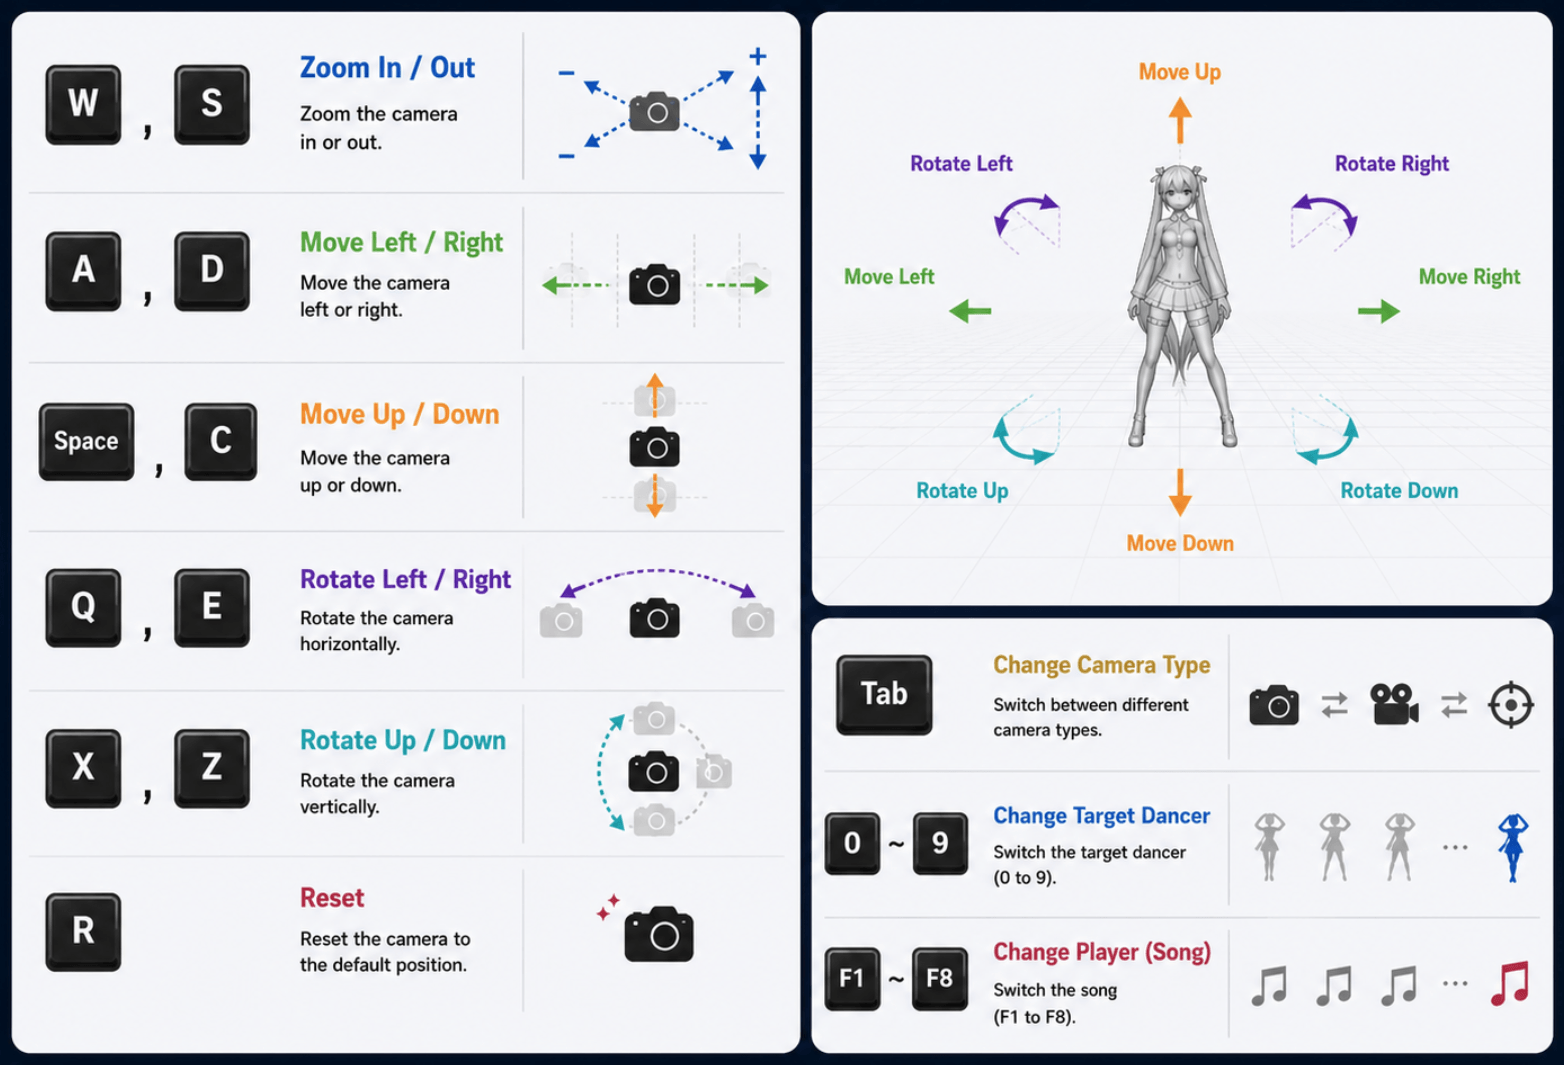
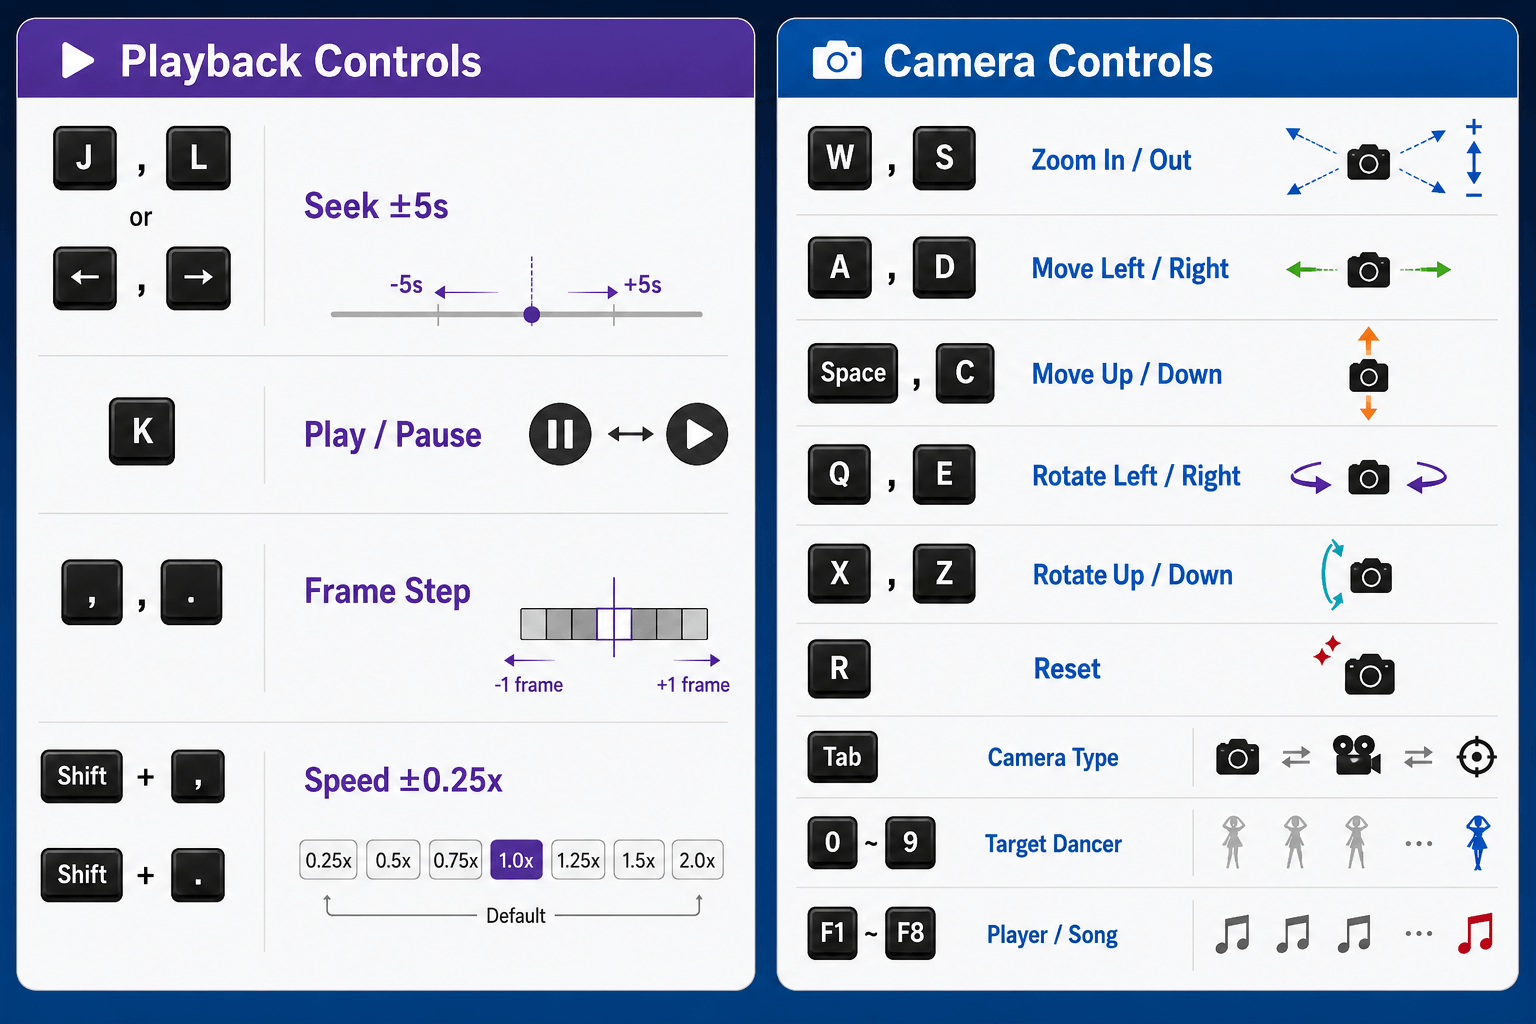
split 1.5.0

diff --git a/docs/en/split-mmd-player/keyboard.md b/docs/en/split-mmd-player/keyboard.md
@@ -9,15 +9,21 @@ This page explains Split MMD Player keyboard controls. Controls are applied to t
 
 ![image](/keyboard.png)
 
-- W,S: Zoom in/out
-- A,D: Move left/right
-- Space,C: Move up/down
-- Q,E: Rotate left/right
-- X,Z: Rotate up/down
-- R: Reset
+## Playback
 
----
+- `J`,`L` (`←`,`→`): Seek backward/forward by 5 seconds
+- `K`: Pause/resume playback
+- `,`,`.`: Step backward/forward by 1 frame
+- `Shift + ,`, `Shift + .`: Change playback speed by 0.25x
 
-- Tab: Change camera type
-- 0~9: Change target dancer
-- F1~F8: Change player
+## Camera
+
+- `W`,`S`: Zoom in/out
+- `A`,`D`: Move left/right
+- `Space`,`C`: Move up/down
+- `Q`,`E`: Rotate left/right
+- `X`,`Z`: Rotate up/down
+- `R`: Reset
+- `Tab`: Change camera type
+- `0`~`9`: Change target dancer
+- `F1`~`F8`: Change player

diff --git a/docs/split-mmd-player/keyboard.md b/docs/split-mmd-player/keyboard.md
@@ -9,15 +9,21 @@ Split MMD Player의 키보드 조작 사용법입니다. 마우스 클릭한 Vie
 
 ![image](/keyboard.png)
 
-- W,S: 확대 축소
-- A,D: 좌우 이동
-- Space,C: 상하 이동
-- Q,E: 좌우 회전
-- X,Z: 상하 회전
-- R: 리셋
+## 재생
 
----
+- `J`,`L`(`←`,`→`): 5초씩 앞뒤 이동
+- `K`: 일시정지, 재생
+- `,`,`.`: 1프레임씩 앞뒤 이동
+- `Shift + ,`, `Shift + .`: 0.25x씩 배속 변경
 
-- Tab: 카메라 타입 변경
-- 0~9: 타겟 댄서 변경
-- F1~F8: 플레이어 변경
+## 카메라
+
+- `W`,`S`: 확대 축소
+- `A`,`D`: 좌우 이동
+- `Space`,C`: 상하 이동
+- `Q`,`E`: 좌우 회전
+- `X`,`Z`: 상하 회전
+- `R`: 리셋
+- `Tab`: 카메라 타입 변경
+- `0`~`9`: 타겟 댄서 변경
+- `F1`~`F8`: 플레이어 변경

diff --git a/docs/ja/split-mmd-player/option.md b/docs/ja/split-mmd-player/option.md
@@ -38,7 +38,7 @@ Split MMD Playerの機能説明です。
   - `3D Strength`: 両目の距離の強さです。
   - `Letterbox`: キャラクターが手前に出て見えるレターボックスのサイズを設定します。
 - `Remember Parameter Changes`: Play中に変更したオプションを初期化せず、次回再生にも使用します。
-- `Show Runtime UI`: Play画面内にカメラ設定UIを表示します。
+- `Show Runtime UI`: Play画面内に再生コントロールとカメラ設定UIを表示します。
 
 ### Inputs
 

diff --git a/docs/split-mmd-player/option.md b/docs/split-mmd-player/option.md
@@ -38,7 +38,7 @@ Split MMD Player의 기능 설명입니다.
   - `3D Strength`: 양쪽 눈의 거리 강도입니다.
   - `Letterbox`: 캐릭터가 앞으로 나와보이게 하는 레터박스의 크기를 설정합니다.
 - `Remember Parameter Changes`: Play중에 바꾼 옵션을 초기화하지 않고 다음 재생에도 사용합니다.
-- `Show Runtime UI`: Play 화면 속에 카메라 설정 UI를 표시합니다.
+- `Show Runtime UI`: Play 화면 속에 재생 컨트롤 및 카메라 설정 UI를 표시합니다.
 
 ### Inputs
 

diff --git a/docs/en/split-mmd-player/option.md b/docs/en/split-mmd-player/option.md
@@ -38,7 +38,7 @@ Feature reference for Split MMD Player.
   - `3D Strength`: Distance strength between the two eyes.
   - `Letterbox`: Sets the letterbox size that makes the character appear to come forward.
 - `Remember Parameter Changes`: Keeps options changed during Play instead of resetting them for the next playback.
-- `Show Runtime UI`: Shows the camera settings UI in the Play screen.
+- `Show Runtime UI`: Shows the playback controls and camera settings UI in the Play screen.
 
 ### Inputs
 

diff --git a/docs/ja/split-mmd-player/changelog.md b/docs/ja/split-mmd-player/changelog.md
@@ -5,6 +5,11 @@ description: Split MMD Playerのバージョン別変更履歴です。
 
 # 変更履歴
 
+## Studio v1.5.0 (2026-07-26)
+
+- feat: Runtime再生コントロールを追加
+- feat: 再生関連のキーボードショートカットを追加
+
 ## Studio v1.4.0 (2026-07-14)
 
 - feat: Tools/nupamo/Split MMD Recorderを追加

diff --git a/docs/split-mmd-player/changelog.md b/docs/split-mmd-player/changelog.md
@@ -5,6 +5,11 @@ description: Split MMD Player의 버전별 변경 이력입니다.
 
 # 변경 이력
 
+## Studio v1.5.0 (2026-07-26)
+
+- feat: Runtime 재생 컨트롤 추가
+- feat: 재생 관련 키보드 단축키 추가
+
 ## Studio v1.4.0 (2026-07-14)
 
 - feat: Tools/nupamo/Split MMD Recorder 추가

diff --git a/docs/en/split-mmd-player/changelog.md b/docs/en/split-mmd-player/changelog.md
@@ -5,6 +5,11 @@ description: Version history for Split MMD Player.
 
 # Changelog
 
+## Studio v1.5.0 (2026-07-26)
+
+- feat: Added runtime playback controls.
+- feat: Added playback keyboard shortcuts.
+
 ## Studio v1.4.0 (2026-07-14)
 
 - feat: Added Tools/nupamo/Split MMD Recorder.
